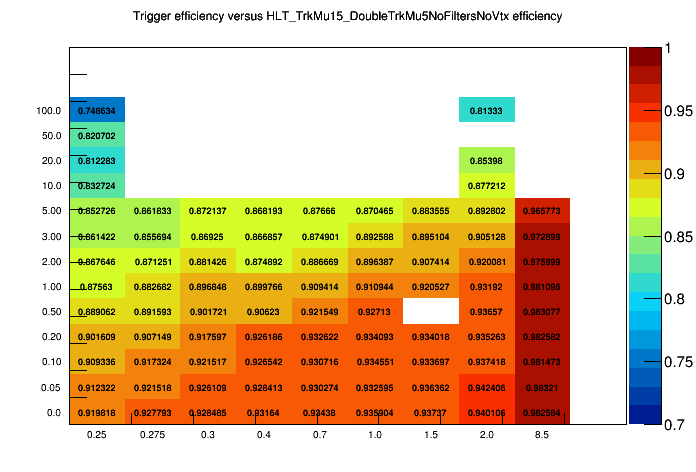
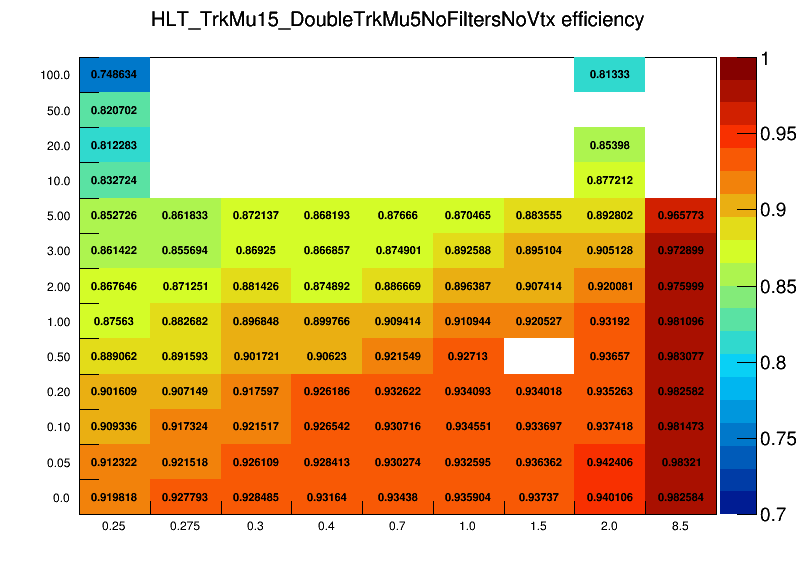
add results

diff --git a/AnalysisRun2/scripts/HLTEfficiency/hltEfficiencyVsPtEta.C b/AnalysisRun2/scripts/HLTEfficiency/hltEfficiencyVsPtEta.C
@@ -376,7 +376,7 @@ void efficiency_trigger(const std::vector<std::string>& dirNames, int layers = 1
   {
     static void plot(enum Variable v, TEfficiency* eff, TString cTitle) { 
 
-      TCanvas *c = new TCanvas("c","c",700,500);
+      TCanvas *c = new TCanvas("c","c",800,600);
       gStyle->SetOptStat(0);
       
       double xMin;
@@ -463,7 +463,7 @@ void hltEfficiency2D()
   std::vector< std::vector<string> > DarkSUSY_mH_125_mGammaD_v;
   readTextFileWithSamples(darkSUSYSamples, DarkSUSY_mH_125_mGammaD_v);
   
-  TCanvas *c = new TCanvas("c","c",700,500);
+  TCanvas *c = new TCanvas("c","c",800,600);
   gStyle->SetOptStat(0);
   gStyle->SetPalette(55);
   
@@ -472,9 +472,8 @@ void hltEfficiency2D()
   int xBin = 50;
   TString xTitle;
   TString yTitle; 
-  TString title = "HLT_TrkMu15_DoubleTrkMu5NoFiltersNoVtx efficiency";
-  
-  TH2F *base = new TH2F("","Trigger efficiency versus " + title, 10, 1, 10, 15, 1, 15);
+
+  TH2F *base = new TH2F("","HLT_TrkMu15_DoubleTrkMu5NoFiltersNoVtx efficiency", 9, 1, 10, 13, 1, 14);
   base->GetXaxis()->SetTitle("");
   base->GetYaxis()->SetTitle("");
   base->GetZaxis()->SetRangeUser(0.7,1.0);
@@ -493,6 +492,7 @@ void hltEfficiency2D()
     TFile *f = new TFile(location + fileName + "_eff_hlt_RECO_vs_leading_eta.root");
     TEfficiency* myEff = (TEfficiency*) f->Get(fileName + "RECO_leading_eta_fid_clone");
     cout << "overal efficiency " << fileName << ": " << getAverageEfficiency(myEff) << " " << mass_index << " " << cT_index << endl<<endl;
+    
     base->SetBinContent( mass_index , cT_index, getAverageEfficiency(myEff));
     base->GetXaxis()->SetBinLabel(mass_index, mass_strings[mass_string].Data());
     base->GetYaxis()->SetBinLabel(cT_index, cT_strings2[cT_string].Data());
